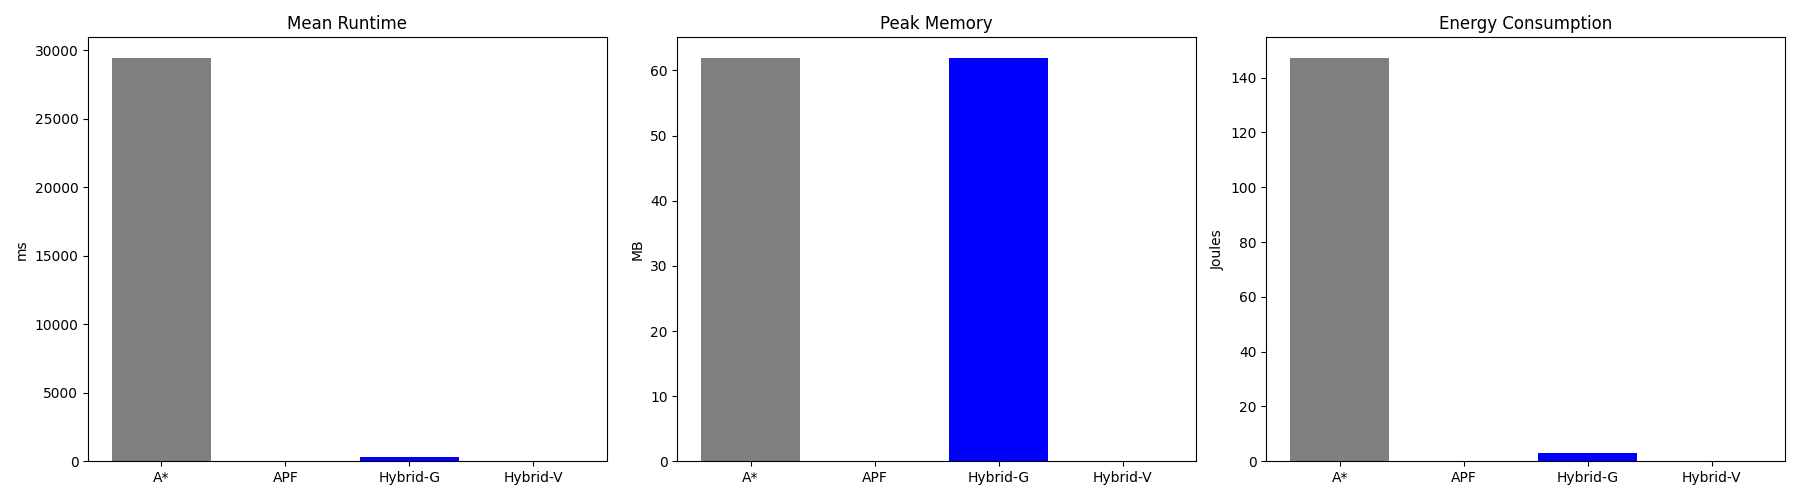
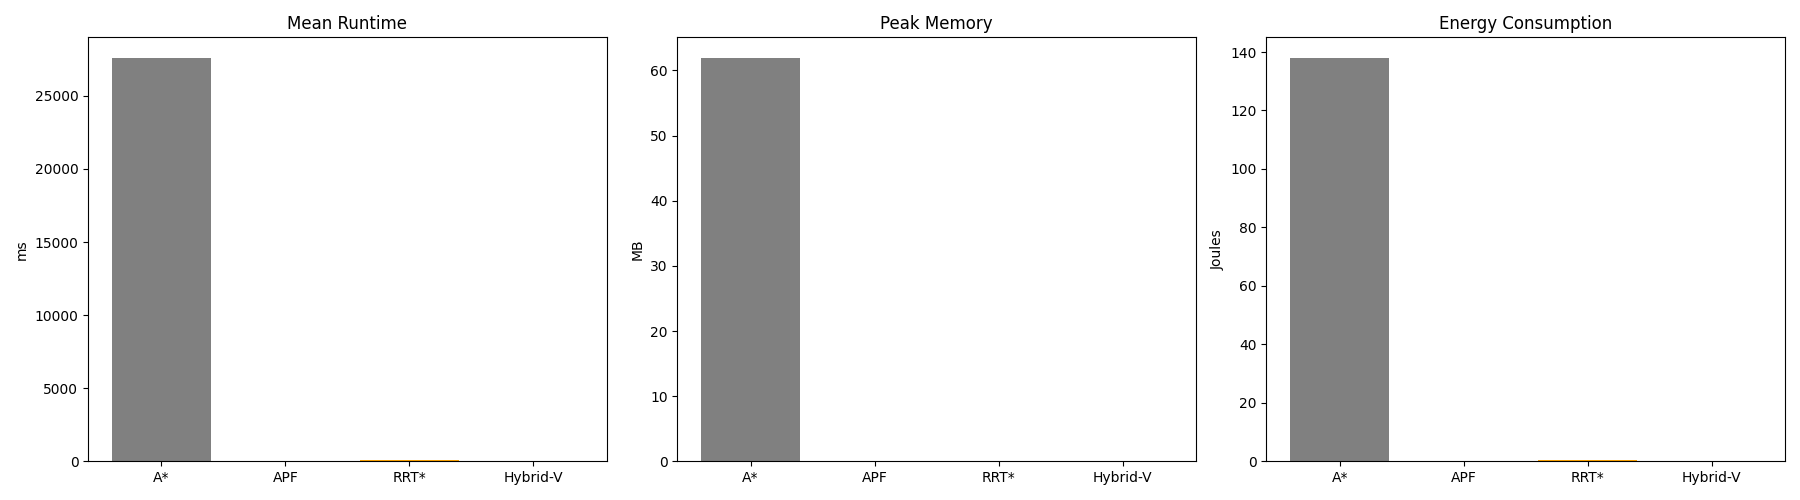
Final Release: Egocentric Hybrid Architecture - IAC 2026 Submission Ready

diff --git a/scripts/benchmark_v5.py b/scripts/benchmark_v5.py
@@ -1,14 +1,14 @@
 
 """
-Version 5: The Vector Revolution Benchmark
-==========================================
+Final Benchmark: Egocentric Hybrid Architecture
+================================================
 Compares:
-1. Classical A* (Baseline)
-2. APF (Competitor: Fast & Light)
-3. Hybrid-Grid (Old V3: Heavy)
-4. Hybrid-Vector (New V5: The Solution)
+1. A* (Optimal Baseline)
+2. APF (Fast Reactive)
+3. RRT* (Sampling-Based)
+4. Hybrid-Vector (Proposed Model)
 
-Focus: Proving V5 beats APF in Memory/Speed while matching A* in quality.
+Focus: Proving the Hybrid model achieves A*-level quality with APF-level speed.
 """
 
 import sys
@@ -25,7 +25,7 @@ sys.path.insert(0, str(Path('.').resolve()))
 
 from src.environment.space_env import SpaceEnv, EnvironmentConfig, AStarPlanner
 from src.planning.apf import PotentialFieldPlanner
-from src.inference.pipeline import InferencePipeline
+from src.planning.rrt_star import RRTStarPlanner
 from src.model.vector_net import VectorTrajectoryGenerator
 
 # Energy Model
@@ -68,26 +68,26 @@ def run_benchmark():
     # 2. APF
     apf = PotentialFieldPlanner(env, max_iter=3000)
     
-    # 3. Hybrid-Grid (V3)
-    hybrid_grid = InferencePipeline(model_path="checkpoints/best_model_3d.pth", device="cpu")
+    # 3. RRT*
+    rrt_star = RRTStarPlanner(env, max_iter=5000, step_size=50.0)
     
-    # 4. Hybrid-Vector (V5)
-    device = torch.device('cpu') # Run on CPU for fair memory profiling vs others
+    # 4. Hybrid-Vector (Proposed Model)
+    device = torch.device('cpu') # Run on CPU for fair memory profiling
     vector_model = VectorTrajectoryGenerator(n_obstacles=20, feature_dim=128, path_len=20).to(device)
     try:
         vector_model.load_state_dict(torch.load("checkpoints/best_model_vector_3d.pth", map_location=device))
         vector_model.eval()
-        print("Loaded V5 Vector Model.")
+        print("Loaded Hybrid-Vector Model.")
     except Exception as e:
-        print(f"Failed to load V5 model: {e}")
+        print(f"Failed to load model: {e}")
         return
 
     # Results
     results = {
-        'A*':      {'success': 0, 'time': [], 'length': [], 'memory': [], 'energy': []},
-        'APF':     {'success': 0, 'time': [], 'length': [], 'memory': [], 'energy': []},
-        'Hybrid-G': {'success': 0, 'time': [], 'length': [], 'memory': [], 'energy': []}, # Grid
-        'Hybrid-V': {'success': 0, 'time': [], 'length': [], 'memory': [], 'energy': []}  # Vector
+        'A*':        {'success': 0, 'time': [], 'length': [], 'memory': [], 'energy': []},
+        'APF':       {'success': 0, 'time': [], 'length': [], 'memory': [], 'energy': []},
+        'RRT*':      {'success': 0, 'time': [], 'length': [], 'memory': [], 'energy': []},
+        'Hybrid-V':  {'success': 0, 'time': [], 'length': [], 'memory': [], 'energy': []}
     }
     
     n_total = len(seeds)
@@ -128,27 +128,26 @@ def run_benchmark():
              results['APF']['memory'].append(peak / 1024 / 1024)
              results['APF']['energy'].append(t_dur * POWER_CPU_WATTS)
 
-        # --- 3. Hybrid-Grid ---
+        # --- 3. RRT* ---
         tracemalloc.start()
         t0 = time.time()
-        grid = env.get_downsampled_grid()
-        out = hybrid_grid.predict(grid, start, goal, env.obstacles) 
-        path = out['path']
+        path = rrt_star.solve(start, goal)
         t_dur = time.time() - t0
         _, peak = tracemalloc.get_traced_memory()
         tracemalloc.stop()
         
-        results['Hybrid-G']['success'] += 1
-        results['Hybrid-G']['time'].append(t_dur * 1000)
-        results['Hybrid-G']['length'].append(calculate_length(path))
-        results['Hybrid-G']['memory'].append(peak / 1024 / 1024)
-        results['Hybrid-G']['energy'].append(t_dur * POWER_GPU_WATTS)
+        if path is not None:
+            results['RRT*']['success'] += 1
+            results['RRT*']['time'].append(t_dur * 1000)
+            results['RRT*']['length'].append(calculate_length(path))
+            results['RRT*']['memory'].append(peak / 1024 / 1024)
+            results['RRT*']['energy'].append(t_dur * POWER_CPU_WATTS)
 
-        # --- 4. Hybrid-Vector (The Star) ---
+        # --- 4. Hybrid-Vector (Proposed Model) ---
         tracemalloc.start()
         t0 = time.time()
         
-        # 4a. Get Vector State (The fast part)
+        # 4a. Get Vector State
         obs_state = env.get_vector_state(start, n_obs=20, relative=True)
         
         # 4b. Inference
@@ -211,7 +210,7 @@ def plot_results(results):
     mems = [np.mean(results[a]['memory']) if results[a]['memory'] else 0 for a in algos]
     energies = [np.mean(results[a]['energy']) if results[a]['energy'] else 0 for a in algos]
     
-    colors = ['gray', 'red', 'blue', 'green']
+    colors = ['gray', 'red', 'orange', 'green']  # A*, APF, RRT*, Hybrid-V
     
     axes[0].bar(algos, times, color=colors)
     axes[0].set_title('Mean Runtime')
